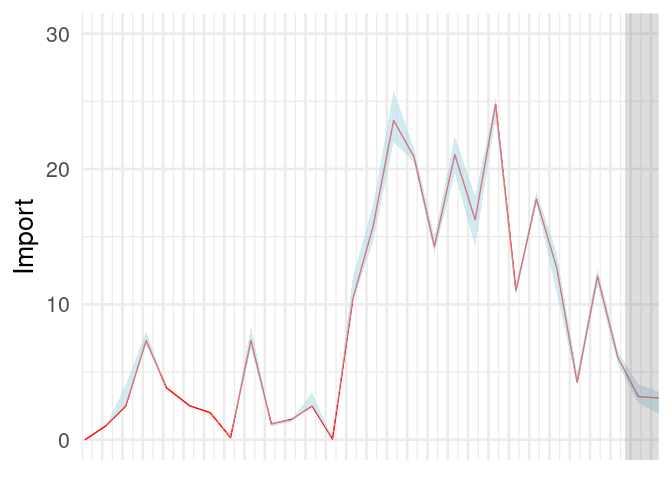
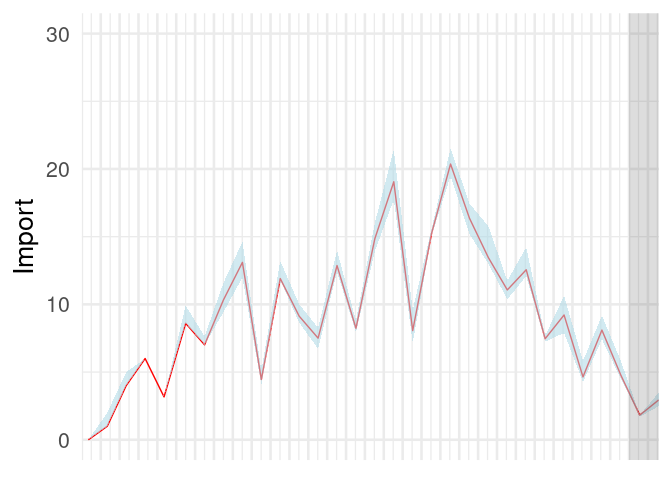
updated 2021/08/02

diff --git a/UK_results.md b/UK_results.md
@@ -1,6 +1,6 @@
 Results - B.1.1.7, “Alpha variant”
 ================
-13/07/2021
+02/08/2021
 
 Phylogeographic mapping
 
@@ -29,9 +29,9 @@ lineage and TMRCA denotes the age of the lineage.
 
 |                    |      2.5% |       50% |     97.5% |
 |:-------------------|----------:|----------:|----------:|
-| Import             |  244.2250 |  252.0000 |  256.7750 |
-| Local transmission | 3669.2250 | 3674.0000 | 3681.7750 |
-| Import / Total     |    0.0622 |    0.0642 |    0.0654 |
+| Import             |  277.0000 |  281.0000 |  286.5500 |
+| Local transmission | 3736.4500 | 3742.0000 | 3746.0000 |
+| Import / Total     |    0.0689 |    0.0698 |    0.0712 |
 
 Next, we estimate the fraction of introductions relative to local
 transmission over time. In these and subsequent analyses it is important
